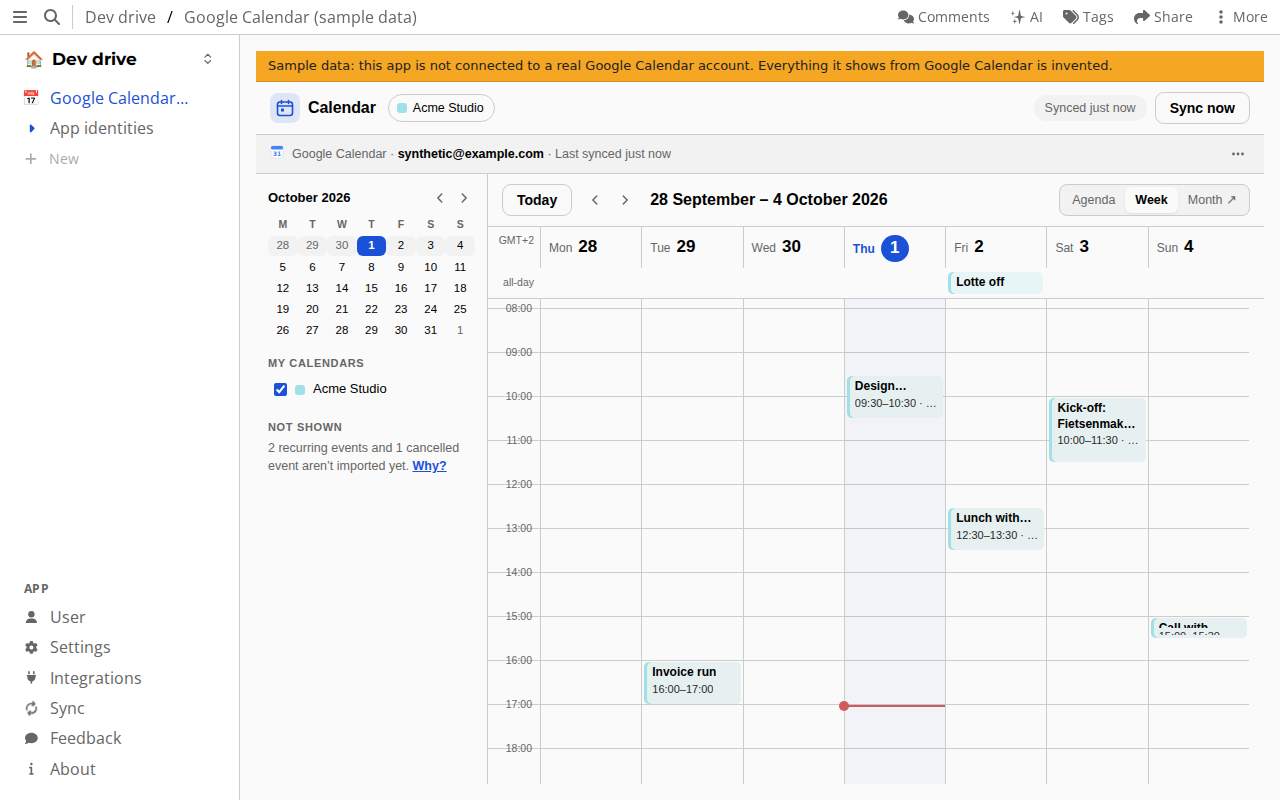
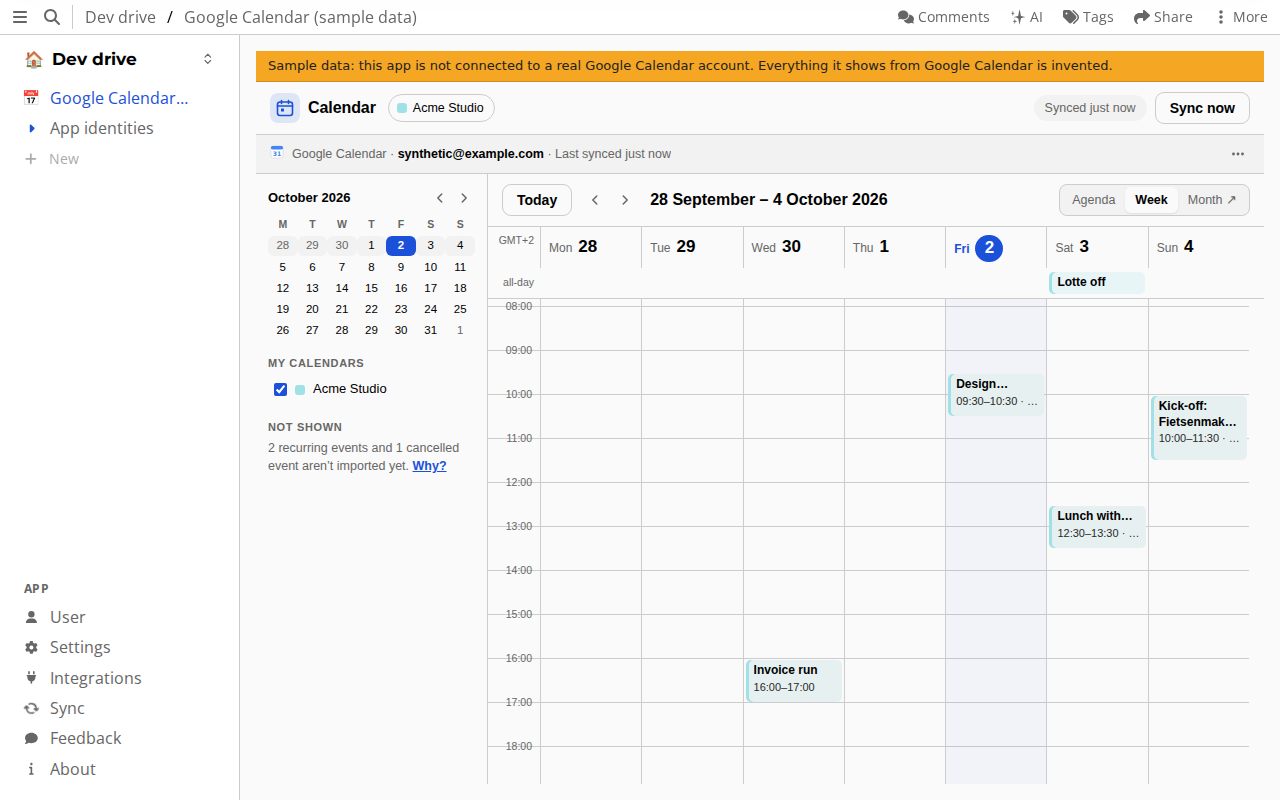
Screenshots: add Clockify and Notion, retake calendar and issue-tracker (#49)

diff --git a/integrations/tooling/e2e/screenshots.spec.ts b/integrations/tooling/e2e/screenshots.spec.ts
@@ -5,13 +5,13 @@
  * every case skips unless SCREENSHOTS_DIR is set. Run it through the driver,
  * which starts the servers and passes the environment:
  *
- *   node integrations/tooling/screenshots.mjs [pets calendar issue-tracker money notion notion-table timesheets]
+ *   node integrations/tooling/screenshots.mjs [pets calendar issue-tracker money notion timesheets]
  *
  * Invented data only:
  * - Pets: the catalog install of `pets` (the lane dev-server's catalog,
  *   serving the committed `apps/pets/<version>/ui.js`), connected through the
  *   host's consent bar to the mock proxy's static `pets` fixture.
- * - Google Calendar and GitHub issues: the "(sample data)" entries of the
+ * - Google Calendar, GitHub issues, Clockify timesheets and Notion: the "(sample data)" entries of the
  *   user-testing catalog (`usertest/catalog.mjs`, `usertest/sample-data/`),
  *   which run the app built from this checkout on an invented Acme Studio
  *   account in the frame. Their yellow "Sample data" line stays in the shot.
@@ -110,6 +110,16 @@ test.describe('README screenshots', () => {
     await expect(
       app.getByText(/Design review: Bakkerij Zonnig packaging/).first(),
     ).toBeVisible({ timeout: 15_000 });
+    // The week grid scrolls to the current time, which on a late evening
+    // run leaves the working day out of view: show 08:00 onwards.
+    await app
+      .getByText('08:00', { exact: true })
+      .first()
+      .evaluate(el => {
+        el.scrollIntoView({ block: 'start' });
+        // Only the grid should scroll, not the app's header above it.
+        window.scrollTo(0, 0);
+      });
     await shoot(page, 'calendar');
   });
 
@@ -160,26 +170,8 @@ test.describe('README screenshots', () => {
   test('notion', async ({ page }) => {
     test.setTimeout(240_000);
     const app = await installSample(page, 'notion', 'Notion (sample data)');
-    // Syncs by itself on first open; the view names the databases.
-    await expect(app.getByText('Roadmap').first()).toBeVisible({
-      timeout: 30_000,
-    });
+    await waitForNotionSync(app);
     await shoot(page, 'notion');
-  });
-
-  test('notion-table', async ({ page }) => {
-    test.setTimeout(240_000);
-    const app = await installSample(page, 'notion', 'Notion (sample data)');
-    await expect(app.getByText('Roadmap').first()).toBeVisible({
-      timeout: 30_000,
-    });
-    const sidebar = page.getByRole('navigation').last();
-    await sidebar
-      .getByRole('button', { name: 'Expand folder' })
-      .first()
-      .click()
-      .catch(() => undefined);
-    await page.pause();
   });
 
   test('money', async ({ page }) => {
@@ -282,6 +274,16 @@ test.describe('README screenshots', () => {
     await shoot(page, 'money');
   });
 });
+
+/** Waits until the Notion status view has finished its first import. */
+async function waitForNotionSync(app: FrameLocator) {
+  await expect(app.getByText('Importing your first rows')).toHaveCount(0, {
+    timeout: 90_000,
+  });
+  await expect(app.getByText('Roadmap').first()).toBeVisible({
+    timeout: 30_000,
+  });
+}
 
 /** Waits for the app frame and its first paint, then returns it. */
 async function appFrame(page: Page): Promise<FrameLocator> {

diff --git a/README.md b/README.md
@@ -60,8 +60,18 @@ on github.io.
       <br><b>🗓 Google Calendar</b>: one calendar's events, and reviewed edits sent back to Google.
     </td>
     <td width="50%" valign="top">
-      <a href="docs/screenshots/issue-tracker.png"><img src="docs/screenshots/issue-tracker.png" alt="The GitHub issues drive app: a Todo, Doing and Done board of an invented repository's issues"></a>
+      <a href="docs/screenshots/issue-tracker.png"><img src="docs/screenshots/issue-tracker.png" alt="The GitHub issues drive app: a Todo, Doing, Blocked and Done board of an invented repository's issues"></a>
       <br><b>🐙 GitHub issues</b>: one repository's issues on a board, two-way, every write reviewed.
+    </td>
+  </tr>
+  <tr>
+    <td width="50%" valign="top">
+      <a href="docs/screenshots/timesheets.png"><img src="docs/screenshots/timesheets.png" alt="The Clockify timesheets drive app: a week grid of an invented person's hours per project, with day and week totals"></a>
+      <br><b>⏱ Clockify</b>: your time entries as a week grid, an entries list and a project list.
+    </td>
+    <td width="50%" valign="top">
+      <a href="docs/screenshots/notion.png"><img src="docs/screenshots/notion.png" alt="The Notion drive app's sync status view: the two invented databases it syncs into one table, with their row counts and the last sync"></a>
+      <br><b>📓 Notion</b>: a sync-status view; the rows themselves are in the table it fills.
     </td>
   </tr>
   <tr>
@@ -76,15 +86,18 @@ on github.io.
   </tr>
 </table>
 
-The screenshots were taken on 2026-10-01 against atomic-server pin `a12b74a`,
-at 1280×800 in the light theme, with invented data only: Google Calendar and
-GitHub issues on the user-testing sample accounts
+Calendar, GitHub issues, Clockify and Notion were taken on 2026-10-02 against
+atomic-server pin `a12b74a`, at 1280×800 in the light theme, with invented
+data only, on the user-testing sample accounts
 ([`usertest/sample-data/`](usertest/sample-data/README.md); hence the yellow
-"Sample data" line), Money on the invented Acme Studio statement in
-`integrations/money/fixtures/usertest/`, and Pets on the mock proxy's static
-fixture. To retake them, set up the pinned atomic-server as in
+"Sample data" line) at the app versions in the table below. Money (taken
+2026-10-01, to be retaken once #295 lands) uses the invented Acme Studio statement
+in `integrations/money/fixtures/usertest/`, and Pets the mock proxy's static
+fixture. The Notion shot shows the app's status view only: the sample's
+table does not show its option columns readably, so there is no shot of it.
+To retake them, set up the pinned atomic-server as in
 [AGENTS.md](AGENTS.md#shared-pinned-atomic-server-build), then run
-`node integrations/tooling/screenshots.mjs [pets calendar issue-tracker money]`.
+`node integrations/tooling/screenshots.mjs [pets calendar issue-tracker money notion timesheets]`.
 The checklist is in [#49](https://github.com/ontola/atomic-plugins/issues/49).
 
 | App                              | What it does (declared)                                                                                                                                                                                                                                                        | Status                                                                                                                                                                                                                                                                                                                                                                | Code                                                             |
@@ -93,8 +106,8 @@ The checklist is in [#49](https://github.com/ontola/atomic-plugins/issues/49).
 | 🗓 **Google Calendar**           | Imports one Google calendar's single (non-recurring) events, up to 25,000 per scan, and sends reviewed edits of five fields back with `If-Match`. No creates or deletes in Google.                                                                                             | Published (0.3.1), `enabled: false`. Rows are the shared `event-v1` class, and it can sync a hand-made `event-v1` table. Host E2E against the mock proxy. No live run of the drive app against Google yet.                                                                                                                                                            | [`integrations/calendar/`](integrations/calendar/)               |
 | 🐙 **GitHub issues**             | Keeps one repository's issues (title, body, Todo/Doing/Done, comments) on a board, two-way. Every write to GitHub is held for review.                                                                                                                                          | Published (0.3.1), `enabled: false`. Rows are the shared `issue-v1` class, and it can sync a hand-made `issue-v1` table. Host E2E against the mock proxy. No live run of the drive app against GitHub yet.                                                                                                                                                            | [`integrations/issue-tracker/`](integrations/issue-tracker/)     |
 | 🏦 **Bank statements** and Money | The importer reads MT940 (up to 512 KB) and camt.053 (up to 5 MB) files, at most 500 transactions per file, and writes nothing before the host's review. The Money app shows the result as a ledger per account and currency, with your own category and note per transaction. | Importer: set up from a release published to the server by hand. Money app: published (0.3.0), `enabled: false`; a catalog install does not give a working app yet, so the screenshot adds it as a view of the importer's table, as its host E2E does. Tested with synthetic statement files only.                                                                    | [`integrations/money/`](integrations/money/)                     |
-| ⏱ **Clockify**                  | Brings your Clockify time entries into a week view and a table, and sends reviewed edits back.                                                                                                                                                                                 | Published (0.6.2), `enabled: false`. Rows are the shared `time-entry-v1` class, and it can sync a hand-made `time-entry-v1` table. Write-back, range edits and conflicts are declared, mock-tested only. Host E2E against the mock proxy. No live run ([#123](https://github.com/ontola/atomic-plugins/issues/123) is open); its screenshot waits until that settles. | [`integrations/timesheets/`](integrations/timesheets/)           |
-| 📓 **Notion**                    | Syncs the rows of shared Notion databases into one table, with select, status and multi-select options as the host's own select columns, and sends reviewed edits to existing pages back. A small status view shows the sync. No page creation or deletes.                     | Published (0.4.0), `enabled: false`. Host E2E against the mock proxy. No live run of the writes ([#8](https://github.com/ontola/atomic-plugins/issues/8) is open); its screenshot waits until that settles.                                                                                                                                                           | [`integrations/notion/`](integrations/notion/)                   |
+| ⏱ **Clockify**                  | Brings your Clockify time entries into a week view and a table, and sends reviewed edits back.                                                                                                                                                                                 | Published (0.6.2), `enabled: false`. Rows are the shared `time-entry-v1` class, and it can sync a hand-made `time-entry-v1` table. Write-back, range edits and conflicts are declared, mock-tested only. Host E2E against the mock proxy. No live run ([#123](https://github.com/ontola/atomic-plugins/issues/123) is open). | [`integrations/timesheets/`](integrations/timesheets/)           |
+| 📓 **Notion**                    | Syncs the rows of shared Notion databases into one table, with select, status and multi-select options as the host's own select columns, and sends reviewed edits to existing pages back. A small status view shows the sync. No page creation or deletes.                     | Published (0.4.0), `enabled: false`. Host E2E against the mock proxy. No live run of the writes ([#8](https://github.com/ontola/atomic-plugins/issues/8) is open).                                                                                                                                                           | [`integrations/notion/`](integrations/notion/)                   |
 | ✅ **Todoist**                   | Imports the active tasks of a Todoist account into an `issue-v1` table, read-only. A task that left the active list is looked up once: a completed one is closed. Nothing is sent to Todoist.                                                                                  | Published (0.1.1), `enabled: false`. Host E2E on a synthetic fixture; nothing checked against real Todoist ([#99](https://github.com/ontola/atomic-plugins/issues/99), [#46](https://github.com/ontola/atomic-plugins/issues/46)).                                                                                                                                    | [`integrations/issue-tracker/`](integrations/issue-tracker/)     |
 | 🐦 **Moneybird**                 | Imports the contacts of one Moneybird administration, read-only.                                                                                                                                                                                                               | Published (0.1.1), `enabled: false`. Host E2E on a synthetic fixture; nothing checked against real Moneybird ([#102](https://github.com/ontola/atomic-plugins/issues/102)).                                                                                                                                                                                           | [`integrations/money/moneybird/`](integrations/money/moneybird/) |
 
